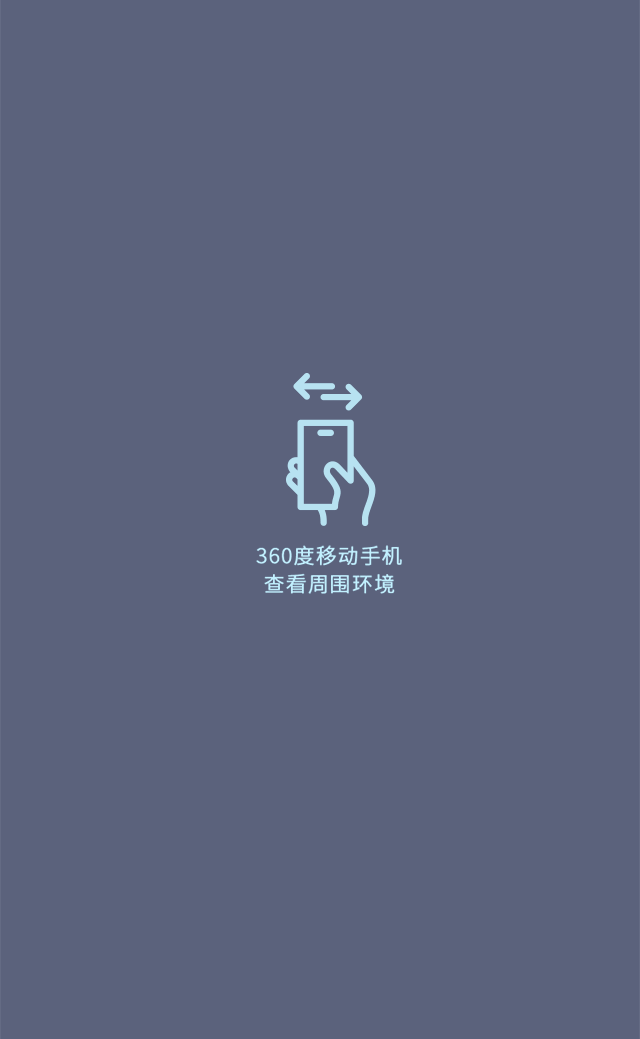
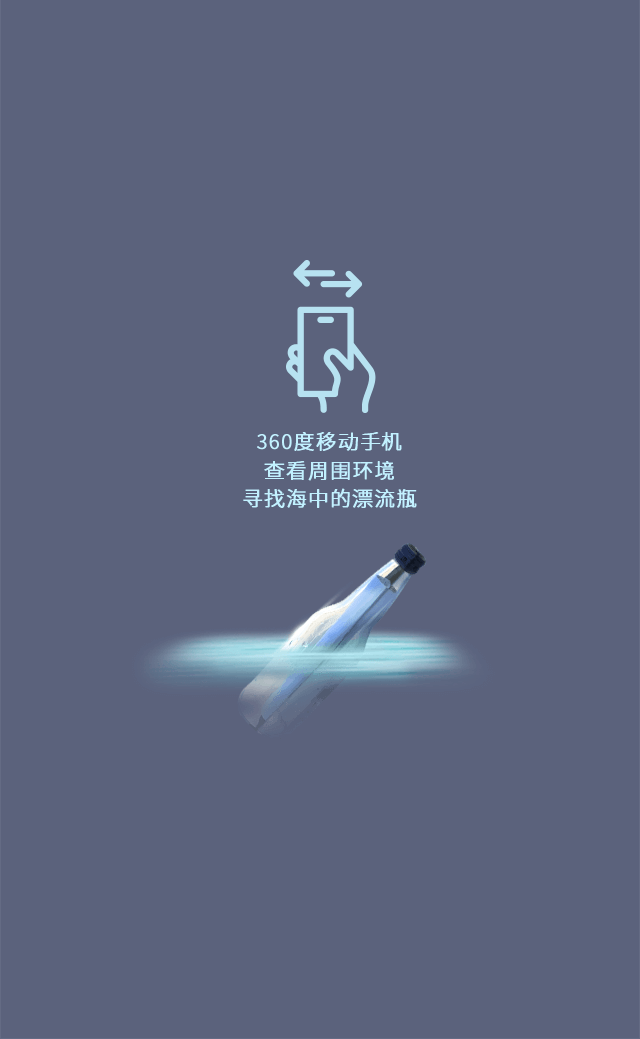
update

Changed region(s): [[0.25, 0.2464, 0.7188, 0.7084]]

diff --git a/js/common-mod.js b/js/common-mod.js
@@ -60,6 +60,7 @@ function loadingPage1(){
 	var images=[];
 	images.push("images/page0Img3.png");
 	images.push("images/page0Img4.png");
+	images.push("images/page0Img5.png");
 	images.push("images/5th_ave_1.jpg");
 	images.push("images/5th_ave_2.jpg");
 	images.push("images/5th_ave_3.jpg");
@@ -68,9 +69,14 @@ function loadingPage1(){
 	images.push("images/5th_ave_6.jpg");
 	images.push("images/preview.jpg");
 	
+	images.push("images/page0RuleBg.png");
+	
+	images.push("images/page1Img3.png");
 	images.push("images/page1Img4.png");
 	images.push("images/page1Img5.png");
+	images.push("images/page1Img5b.png");
 	images.push("images/page1Img6.png");
+	images.push("images/page1Img7.png");
 	images.push("images/page2Img1.jpg");
 	
     /*图片预加载*/
@@ -91,12 +97,13 @@ function loadingPage1(){
 	}
 	
 function goPage1(){
-	$j('.page0Img1').removeClass('page0Img1Act').fadeOut(500);
-	$j('.page0Img2').removeClass('page0Img2Act').fadeOut(500);
+	//$j('.page0Img1').removeClass('page0Img1Act').fadeOut(500);
+	//$j('.page0Img2').removeClass('page0Img2Act').fadeOut(500);
 	$j('.loadingImg').hide();
 	$j('.loadTxt').hide();
-	$j('.page0Img3').addClass('page0Img3Act').show();
-	setTimeout(function(){
+	$j('.page0Img4').fadeIn(500);
+	$j('.indexBtn1,.indexBtn2,.indexBtn3').show();
+	/*setTimeout(function(){
 		$j('.page0Img4').addClass('page0Img4Act').show();
 		$j('.page0').fadeOut(500);
 		setTimeout(function(){
@@ -112,21 +119,75 @@ function goPage1(){
 				$j('.page1Img3').fadeOut(500);
 				},3000);
 			},1000);
-		},4000);
+		},4000);*/
+	}
+	
+function indexStartGame(){
+	$j('.indexBtn1,.indexBtn2,.indexBtn3').hide();
+	$j('.page0Img1').removeClass('page0Img1Act').fadeOut(500);
+	$j('.page0Img2').removeClass('page0Img2Act').fadeOut(500);
+	$j('.page0Img4').fadeOut(500);
+	$j('.page0Img3').addClass('page0Img3Act').show();
+	setTimeout(function(){
+		$j('.page0Img5').addClass('page0Img5Act').show();
+		$j('.page0Img3').removeClass('page0Img3Act');
+		$j('.page0').delay(500).fadeOut(500);
+		
+		setTimeout(function(){
+			$j('.page1').fadeIn(500);
+			hidePanoLayerEle(['compass1']);
+			$j('#pano').fadeIn(1000);
+			$j('.page1Img0').fadeOut(1500);
+			setTimeout(function(){
+				$j('.page0Img4').hide();
+				$j('.page1Img0').hide();
+				$j('#page1Img2').fadeOut(1000);
+				$j('.page1Img3').fadeOut(500);
+				},3000);
+			},1500);
+		},3500);
+	}
+	
+function showRule(){
+	$j('.indexBtn1,.indexBtn2,.indexBtn3').hide();
+	$j('.pageRule').fadeIn(500);
+	}
+function closeRule(){
+	$j('.indexBtn1,.indexBtn2,.indexBtn3').show();
+	$j('.pageRule').fadeOut(500);
+	}
+	
+function showMyAward(){
+	$j('.indexBtn1,.indexBtn2,.indexBtn3').hide();
+	$j('.pageAward').fadeIn(500);
+	}
+function closeAward(){
+	$j('.indexBtn1,.indexBtn2,.indexBtn3').show();
+	$j('.pageAward').fadeOut(500);
+	}
+	
+function showShareNote(){
+	
 	}
 	
 function getBottle(){
 	$j('#pano').fadeOut(500);
 	$j('.page1Img4').fadeIn(500);
 	$j('.page1Img5').addClass('page1Img5Act').show();
+	$j('.page1Img5b').delay(500).fadeIn(500).click(function(){
+		goLuopan();
+		});
+	}
 	
+function goLuopan(){
+	$j('.page1Img4').fadeOut(500);
+	$j('.page1Img5').hide();
+	$j('.page1Img5b').hide();
+	$j('.page1Img6').fadeIn(500);
+	$j('.page1Img7').delay(2500).fadeIn(500);
 	setTimeout(function(){
-		$j('.page1Img4').fadeOut(500);
-		$j('.page1Img5').hide();
-		$j('.page1Img6').fadeIn(500);
-		$j('.page1Img7').show();
-		$j('.page1Img8').show();
-		},2000);
+		backPano2();
+		},5000);
 	}
 	
 var krpano;

diff --git a/css/common.css b/css/common.css
@@ -16,7 +16,7 @@ select,input,textarea{font-family:inherit; outline:none;}
 .innerDiv{ width:100%; height:100%; position:relative;}
 .abs{ position:absolute;}
 
-.page{ position:absolute; left:0; top:0;}
+.page{ position:absolute; left:0; top:0; width:640px;}
 .pageOuter{ width:640px; overflow:hidden; margin:0 auto; position:relative;}
 .h832{ width:640px; height:832px;}
 .bgImg{ position:absolute; left:0; top:-104px; width:640px; height:1039px; display:block;}
@@ -49,13 +49,37 @@ select,input,textarea{font-family:inherit; outline:none;}
 0%{-webkit-transform:translate(0,20px); opacity:0; -webkit-opacity:0;}
 100%{-webkit-transform:translate(0,0); opacity:1; -webkit-opacity:1;}
 }
-.page0Img4{ background:url(../images/page0Img4.png) 0 0 no-repeat; width:1280px; height:1340px; position:absolute; left:50%; top:50%; margin:-670px 0 0 -640px;}
-.page0Img4Act{
--webkit-animation:page0Img4Act 1.5s 0s linear both; -webkit-transform-origin:640px 670px;}
+.page0Img4{ background:url(../images/page0Img4.png) 0 0 no-repeat;}
+.indexBtn1{ left:198px; top:439px;}
+.indexBtn2{ left:198px; top:539px;}
+.indexBtn3{ left:198px; top:640px;}
+
+.page0RuleBg{ background:url(../images/page0RuleBg.png) 0 0 no-repeat;}
+.ruleBlock{ width:640px; height:553px; left:0; top:123px; overflow-x:hidden; overflow-y:auto;}
+.indexBtn4{ left:269px; top:696px;}
+
+.page0Award1{ background:url(../images/page0Award1.png) 0 0 no-repeat;}
+.page0Award2{ background:url(../images/page0Award2.png) 0 0 no-repeat;}
+.page0Award3{ background:url(../images/page0Award3.png) 0 0 no-repeat;}
+.indexBtn5{ left:269px; top:762px;}
+.indexBtn6{ left:194px; top:370px;}
+
+.page0Img5{ background:url(../images/page0Img5.png) 0 0 no-repeat;}
+.page0Img5Act{
+-webkit-animation:page0Img5Act 1.5s 0s linear both; -webkit-transform-origin:50% 50%;}
+@-webkit-keyframes page0Img5Act{
+0%{-webkit-transform:scale(1); opacity:0;}
+30%{-webkit-transform:scale(1); opacity:1;}
+100%{-webkit-transform:scale(5); opacity:1;}
+}
+
+/*.page0Img5{ background:url(../images/page0Img5.png) 0 0 no-repeat; width:1280px; height:1340px; position:absolute; left:50%; top:50%; margin:-670px 0 0 -640px;}
+.page0Img5Act{
+-webkit-animation:page0Img5Act 1.5s 0s linear both; -webkit-transform-origin:640px 670px;}
 @-webkit-keyframes page0Img4Act{
 0%{-webkit-transform:scale(0.9); opacity:1;}
 100%{-webkit-transform:scale(4); opacity:0;}
-}
+}*/
 .loadingImg{ left:265px; top:397px;
 -webkit-animation:loadingImg 5s 0s linear both infinite; -webkit-transform-origin:55px 55px;}
 @-webkit-keyframes loadingImg{
@@ -85,9 +109,11 @@ select,input,textarea{font-family:inherit; outline:none;}
 80%{-webkit-transform:scale(1.2); opacity:1; -webkit-opacity:1;}
 100%{-webkit-transform:scale(1); opacity:1; -webkit-opacity:1;}
 }
+.page1Img5b{ background:url(../images/page1Img5b.png) 0 0 no-repeat;}
 
 .page1Img6{ background:url(../images/page1Img6.png) 0 0 no-repeat;}
-.page1Img7{ left:500px; top:670px;
+.page1Img7{ background:url(../images/page1Img7.png) 0 0 no-repeat;}
+/*.page1Img7{ left:500px; top:670px;
 -webkit-animation:page1Img7 1s 0.5s linear both infinite;
 -webkit-transform-origin:50% 50%;}
 @-webkit-keyframes page1Img7{
@@ -95,7 +121,7 @@ select,input,textarea{font-family:inherit; outline:none;}
 30%{-webkit-transform:scale(1.2);}
 60%{-webkit-transform:scale(1);}
 100%{-webkit-transform:scale(1);}
-}
+}*/
 .page1Img8{ left:449px; top:511px;}
 
 /*page2*/

diff --git a/index.html b/index.html
@@ -53,12 +53,40 @@
                 <img src="images/loadingImg.png" class="abs loadingImg" style="display:none;">
                 <div class="loadTxt abs" style="display:none;">LOADING <span>0</span>%</div>
                 
+                <div class="page0Img4 bgImg" style="display:none;"></div>
+                <a href="javascript:void(0);" class="abs indexBtn1" onClick="indexStartGame();" style="display:none;"><img src="images/space.gif" width="250" height="52"></a>
+                <a href="javascript:void(0);" class="abs indexBtn2" onClick="showRule();" style="display:none;"><img src="images/space.gif" width="250" height="52"></a>
+                <a href="javascript:void(0);" class="abs indexBtn3" onClick="showMyAward();" style="display:none;"><img src="images/space.gif" width="250" height="52"></a>
+                
                 <div class="page0Img3 bgImg" style="display:none;"></div>
             </div>
         </div>
     </div>
     
-    <div class="page0Img4" style="display:none;"></div>
+    <div class="pageRule page" style="display:none;">
+    	<div class="h832">
+        	<div class="innerDiv">
+				<div class="page0RuleBg bgImg"></div>
+            	<div class="abs ruleBlock">
+                	<img src="images/ruleImg.png">
+                </div>
+                <a href="javascript:void(0);" class="abs indexBtn4" onClick="closeRule();"><img src="images/space.gif" width="103" height="103"></a>
+            </div>
+        </div>
+    </div>
+    
+    <div class="pageAward page" style="display:none;">
+    	<div class="h832">
+        	<div class="innerDiv">
+				<div class="page0Award page0Award1 bgImg"></div>
+                <img src="images/page0AwardQc.png" class="bgImg">
+                <a href="javascript:void(0);" class="abs indexBtn6" onClick="showShareNote();"><img src="images/space.gif" width="252" height="52"></a>
+                <a href="javascript:void(0);" class="abs indexBtn5" onClick="closeAward();"><img src="images/space.gif" width="103" height="103"></a>
+            </div>
+        </div>
+    </div>
+    
+    <div class="page0Img5 bgImg" style="display:none;"></div>
     
     <div class="page1 page" style="display:none;">
     	<div class="h832">
@@ -78,10 +106,10 @@
                 
                 <div class="page1Img4 bgImg" style="display:none;"></div>
                 <div class="page1Img5 bgImg" style="display:none;"></div>
+                <div class="page1Img5b bgImg" style="display:none;"></div>
                 
                 <div class="page1Img6 bgImg" style="display:none;"></div>
-                <img src="images/page1Img7.png" class="abs page1Img7" style="display:none;">
-                <img src="images/space.gif" width="146" height="146" class="abs page1Img8" style="display:none;" onClick="backPano2();">
+                <div class="page1Img7 bgImg" style="display:none;"></div>
             </div>
         </div>
     </div>
